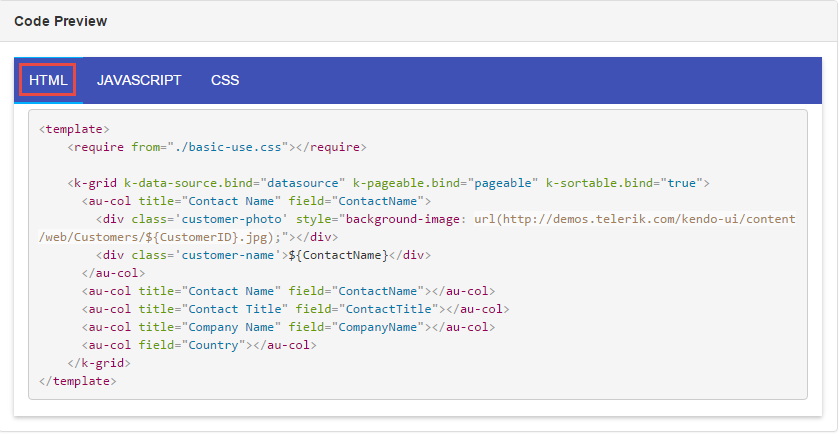
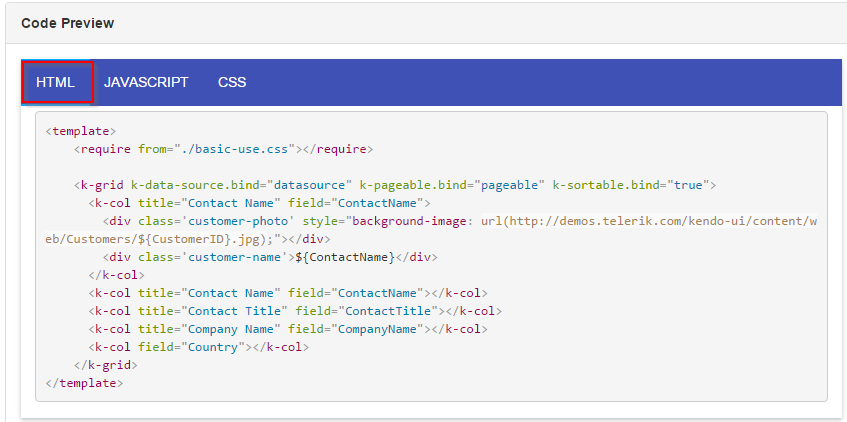
no message

Changed region(s): [[0.0, 0.0924, 1.0, 0.9858], [0.0, 0.955, 0.9917, 1.0], [0.0, 0.0308, 0.1549, 0.0924]]

diff --git a/src/samples/progressbar/vertical-progressbar.js b/src/samples/progressbar/vertical-progressbar.js
@@ -1,9 +1,18 @@
+import {TaskQueue, inject} from 'aurelia-framework';
+
+@inject(TaskQueue)
 export class VerticalProgressbar {
 
   itemsToLoad = ['styles', 'scripts', 'images', 'fonts'];
 
+  constructor(taskQueue) {
+    this.taskQueue = taskQueue;
+  }
+
   attached() {
-    this.load();
+    this.taskQueue.queueMicroTask(() => {
+      this.load();
+    });
   }
 
   onChange(e) {
@@ -15,13 +24,11 @@ export class VerticalProgressbar {
       clearInterval(this.interval);
     }
 
-    let pb1 = this.pb1.kWidget;
-
-    let total = +pb1.value();
+    let total = +this.pb1.value();
     total ++;
-    pb1.value(total);
+    this.pb1.value(total);
 
-    if (total < pb1.options.max) {
+    if (total < this.pb1.options.max) {
       $('.chunkStatus').text(total + 1);
       $('.loadingInfo h2').text(`Loading ${this.itemsToLoad[total]}`);
 
@@ -36,12 +43,11 @@ export class VerticalProgressbar {
   }
 
   load() {
-    let pb2 = this.pb2.kWidget;
-    pb2.value(0);
+    this.pb2.value(0);
 
     this.interval = setInterval(() => {
-      if (pb2.value() < 100) {
-        pb2.value(pb2.value() + 1);
+      if (this.pb2.value() < 100) {
+        this.pb2.value(this.pb2.value() + 1);
       } else {
         clearInterval(this.interval);
       }
@@ -49,14 +55,11 @@ export class VerticalProgressbar {
   }
 
   reload() {
-    let pb1 = this.pb1.kWidget;
-    let pb2 = this.pb2.kWidget;
-
     $(this.reloadButton).hide();
     $('.statusContainer').show();
 
-    pb1.value(0);
-    pb2.value(0);
+    this.pb1.value(0);
+    this.pb2.value(0);
     $('.loadingInfo h2').text(`Loading ${this.itemsToLoad[0]}`);
     $('.chunkStatus').text(1);
 

diff --git a/src/samples/chart/sparkline/remote-data.html b/src/samples/chart/sparkline/remote-data.html
@@ -2,8 +2,8 @@
   <div id="example">
     <div class="demo-section k-content wide">
       <k-grid k-data-source.bind="{ data: months }">
-        <au-col title="MONTH" field="name"></au-col>
-        <au-col title="MAX TEMP &deg;C">
+        <k-col title="MONTH" field="name"></k-col>
+        <k-col title="MAX TEMP &deg;C">
           <k-sparkline k-data-source.bind="dataSource"
                        k-series.bind="[{
                          type: 'column',
@@ -12,16 +12,16 @@
                          negativeColor: '\#0099ff'
                        }]">
           </k-sparkline>
-        </au-col>
-        <au-col title="WIND SPEED KM/H">
+        </k-col>
+        <k-col title="WIND SPEED KM/H">
           <k-sparkline k-data-source.bind="dataSource"
                        k-series.bind="[{
                          field: 'Wind',
                          color: '\#5b8f00'
                        }]">
           </k-sparkline>
-        </au-col>
-        <au-col title="RAINFALL MM">
+        </k-col>
+        <k-col title="RAINFALL MM">
           <k-sparkline k-data-source.bind="dataSource"
                        k-series.bind="[{
                          type: 'area',
@@ -29,7 +29,7 @@
                          color: '\#0099ff'
                        }]">
           </k-sparkline>
-        </au-col>
+        </k-col>
       </k-grid>
     </div>
   </div>

diff --git a/src/samples/progressbar/vertical-progressbar.html b/src/samples/progressbar/vertical-progressbar.html
@@ -4,19 +4,19 @@
     <div id="vertical-progressbar">
       <div class="demo-section k-content">
           <div class="loading">
-              <div k-progress-bar.ref="pb1"
-                   k-progress-bar="k-type: chunk;
+              <div k-progress-bar="k-type: chunk;
                                    k-chunk-count: 4;
                                    k-min: 0;
                                    k-max: 4;
-                                   k-orientation: vertical"
+                                   k-orientation: vertical;
+                                   k-widget.bind: pb1"
                    k-on-complete.delegate="onTotalComplete()">
               </div>
 
-              <div k-progress-bar.ref="pb2"
-                   k-progress-bar="k-animation.bind: false;
+              <div k-progress-bar="k-animation.bind: false;
                                   k-show-status.bind: false;
-                                  k-orientation: vertical"
+                                  k-orientation: vertical;
+                                  k-widget.bind: pb2"
                    k-on-complete.delegate="onComplete()"
                    k-on-change.delegate="onChange($event.detail)">
               </div>

diff --git a/src/samples/grid/virtualization-of-remote-data.html b/src/samples/grid/virtualization-of-remote-data.html
@@ -3,14 +3,14 @@
   <br>
   <br>
   <k-grid k-data-source.bind="datasource" k-sortable.bind="true" k-scrollable.bind="{virtual:true}">
-    <au-col title="Order ID" field="OrderID" width.bind="110"></au-col>
-    <au-col title="Customer ID" field="CustomerID" width.bind="130"></au-col>
-    <au-col title="Ship Name" field="ShipName" width.bind="280"></au-col>
-    <au-col title="Ship Address" field="ShipAddress"></au-col>
-    <au-col title="Ship City" field="ShipCity" width.bind="160"></au-col>
-    <au-col title="Ship Country" field="ShipCountry" width.bind="160"></au-col>
-    <au-col title="Test">
+    <k-col title="Order ID" field="OrderID" width.bind="110"></k-col>
+    <k-col title="Customer ID" field="CustomerID" width.bind="130"></k-col>
+    <k-col title="Ship Name" field="ShipName" width.bind="280"></k-col>
+    <k-col title="Ship Address" field="ShipAddress"></k-col>
+    <k-col title="Ship City" field="ShipCity" width.bind="160"></k-col>
+    <k-col title="Ship Country" field="ShipCountry" width.bind="160"></k-col>
+    <k-col title="Test">
       <button k-button class="k-primary">Enable</button>
-    </au-col>
+    </k-col>
   </k-grid>
 </template>

diff --git a/src/samples/grid/virtualization-of-remote-data-without-button.html b/src/samples/grid/virtualization-of-remote-data-without-button.html
@@ -3,11 +3,11 @@
   <br>
   <br>
   <k-grid k-data-source.bind="datasource" k-sortable.bind="true" k-scrollable.bind="{virtual:true}">
-    <au-col title="Order ID" field="OrderID" width.bind="110"></au-col>
-    <au-col title="Customer ID" field="CustomerID" width.bind="130"></au-col>
-    <au-col title="Ship Name" field="ShipName" width.bind="280"></au-col>
-    <au-col title="Ship Address" field="ShipAddress"></au-col>
-    <au-col title="Ship City" field="ShipCity" width.bind="160"></au-col>
-    <au-col title="Ship Country" field="ShipCountry" width.bind="160"></au-col>
+    <k-col title="Order ID" field="OrderID" width.bind="110"></k-col>
+    <k-col title="Customer ID" field="CustomerID" width.bind="130"></k-col>
+    <k-col title="Ship Name" field="ShipName" width.bind="280"></k-col>
+    <k-col title="Ship Address" field="ShipAddress"></k-col>
+    <k-col title="Ship City" field="ShipCity" width.bind="160"></k-col>
+    <k-col title="Ship Country" field="ShipCountry" width.bind="160"></k-col>
   </k-grid>
 </template>

diff --git a/src/samples/grid/frozen-columns.html b/src/samples/grid/frozen-columns.html
@@ -7,10 +7,10 @@
           k-filterable.bind="true" 
           k-column-menu.bind="true"
           k-pageable.bind="true">
-    <au-col field="OrderID" title="Order ID" locked.bind="true" lockable.bind="false" width.bind="150"></au-col>
-    <au-col field="ShipCountry" title="Ship Country" width.bind="300"></au-col>
-    <au-col field="ShipCity" title="Ship City" width.bind="300"></au-col>
-    <au-col field="ShipName" title="Ship Name" locked.bind="true" width.bind="300"></au-col>
-    <au-col field="ShipAddress" lockable.bind="false" width.bind="400"></au-col>
+    <k-col field="OrderID" title="Order ID" locked.bind="true" lockable.bind="false" width.bind="150"></k-col>
+    <k-col field="ShipCountry" title="Ship Country" width.bind="300"></k-col>
+    <k-col field="ShipCity" title="Ship City" width.bind="300"></k-col>
+    <k-col field="ShipName" title="Ship Name" locked.bind="true" width.bind="300"></k-col>
+    <k-col field="ShipAddress" lockable.bind="false" width.bind="400"></k-col>
   </k-grid>
 </template>

diff --git a/config.js b/config.js
@@ -28,7 +28,7 @@ System.config({
     "aurelia-event-aggregator": "npm:aurelia-event-aggregator@1.0.0-beta.1",
     "aurelia-framework": "npm:aurelia-framework@1.0.0-beta.1.0.8",
     "aurelia-http-client": "npm:aurelia-http-client@1.0.0-beta.1",
-    "aurelia-kendoui-bridge": "npm:aurelia-kendoui-bridge@0.1.0",
+    "aurelia-kendoui-bridge": "npm:aurelia-kendoui-bridge@0.1.1",
     "aurelia-loader": "npm:aurelia-loader@1.0.0-beta.1.0.1",
     "aurelia-logging": "npm:aurelia-logging@1.0.0-beta.1",
     "aurelia-metadata": "npm:aurelia-metadata@1.0.0-beta.1",
@@ -161,7 +161,7 @@ System.config({
       "aurelia-path": "npm:aurelia-path@1.0.0-beta.1",
       "core-js": "npm:core-js@1.2.6"
     },
-    "npm:aurelia-kendoui-bridge@0.1.0": {
+    "npm:aurelia-kendoui-bridge@0.1.1": {
       "aurelia-binding": "npm:aurelia-binding@1.0.0-beta.1.0.5",
       "aurelia-bootstrapper": "npm:aurelia-bootstrapper@1.0.0-beta.1.0.2",
       "aurelia-dependency-injection": "npm:aurelia-dependency-injection@1.0.0-beta.1.0.1",

diff --git a/src/samples/grid/basic-use.html b/src/samples/grid/basic-use.html
@@ -2,13 +2,13 @@
     <require from="./basic-use.css"></require>
 
     <k-grid k-data-source.bind="datasource" k-pageable.bind="pageable" k-sortable.bind="true">
-      <au-col title="Contact Name" field="ContactName">
+      <k-col title="Contact Name" field="ContactName">
         <div class='customer-photo' style="background-image: url(http://demos.telerik.com/kendo-ui/content/web/Customers/${CustomerID}.jpg);"></div>
         <div class='customer-name'>${ContactName}</div>
-      </au-col>
-      <au-col title="Contact Name" field="ContactName"></au-col>
-      <au-col title="Contact Title" field="ContactTitle"></au-col>
-      <au-col title="Company Name" field="CompanyName"></au-col>
-      <au-col field="Country"></au-col>
+      </k-col>
+      <k-col title="Contact Name" field="ContactName"></k-col>
+      <k-col title="Contact Title" field="ContactTitle"></k-col>
+      <k-col title="Company Name" field="CompanyName"></k-col>
+      <k-col field="Country"></k-col>
     </k-grid>
 </template>

diff --git a/src/samples/grid/editing-custom-editor.html b/src/samples/grid/editing-custom-editor.html
@@ -1,10 +1,10 @@
 <template>
   <div id="example">
     <k-grid k-pageable.bind="true" k-height.bind="500" k-toolbar.bind="['create']" k-editable.bind="true" k-data-source.bind="dataSource">
-      <au-col field="ProductName" title="Product Name"></au-col>
-      <au-col field="Category" title="Category" width="180px" editor.bind="categoryDropDownEditor" template.bind="categoryTemplate"></au-col>
-      <au-col field="UnitPrice" title="Unit Price" format="{0:c}" width="130px"></au-col>
-      <au-col command="destroy" title=" " width="150px"></au-col>
+      <k-col field="ProductName" title="Product Name"></k-col>
+      <k-col field="Category" title="Category" width="180px" editor.bind="categoryDropDownEditor" template.bind="categoryTemplate"></k-col>
+      <k-col field="UnitPrice" title="Unit Price" format="{0:c}" width="130px"></k-col>
+      <k-col command="destroy" title=" " width="150px"></k-col>
     </k-grid>
   </div>
 </template>

diff --git a/src/shared/showcase.html b/src/shared/showcase.html
@@ -5,9 +5,9 @@
         <h3>${ router.title }</h3>
         <div>
             <div class="col-md-2">
-                <ul class="well nav nav-pills nav-stacked">
-                    <li repeat.for="row of router.navigation" class="${row.isActive ? 'active' : ''}">
-                        <a href.bind="row.href">${row.title}</a>
+                <ul class="k-widget k-reset k-header k-panelbar k-panel">
+                    <li repeat.for="row of router.navigation" class="k-item ${ $first ? 'k-first' : '' } ${ $last ? 'k-last' : ''} ">
+                        <span click.delegate="router.navigate(row.href)" mouseenter.trigger="row.isHovered = true" mouseleave.trigger="row.isHovered = false" class="k-link ${ row.isActive ? 'k-state-selected' : ''} ${ row.isHovered ? 'k-state-hover' : '' }">${row.title}</span>
                     </li>
                 </ul>
             </div>

diff --git a/src/samples/grid/inline-editing.html b/src/samples/grid/inline-editing.html
@@ -1,9 +1,9 @@
 <template>
   <k-grid k-data-source.bind="datasource" k-pageable.bind="true" k-toolbar.bind="['create']" k-editable="inline">
-    <au-col field="ProductName"></au-col>
-    <au-col field="UnitPrice" title="Unit Price" format="{0:c}" width="120px"></au-col>
-    <au-col field="UnitsInStock" title="Units In Stock" width="120px"></au-col>
-    <au-col field="Discontinued" width="120px"></au-col>
-    <au-col command.bind="['edit', 'destroy']" title="&nbsp;" width="250px"></au-col>
+    <k-col field="ProductName"></k-col>
+    <k-col field="UnitPrice" title="Unit Price" format="{0:c}" width="120px"></k-col>
+    <k-col field="UnitsInStock" title="Units In Stock" width="120px"></k-col>
+    <k-col field="Discontinued" width="120px"></k-col>
+    <k-col command.bind="['edit', 'destroy']" title="&nbsp;" width="250px"></k-col>
   </k-grid>
 </template>

diff --git a/src/samples/grid/popup-editing.html b/src/samples/grid/popup-editing.html
@@ -1,9 +1,9 @@
 <template>
   <k-grid k-data-source.bind="datasource" k-pageable.bind="true" k-toolbar.bind="['create']" k-editable="popup">
-    <au-col field="ProductName"></au-col>
-    <au-col field="UnitPrice" title="Unit Price" format="{0:c}" width="120px"></au-col>
-    <au-col field="UnitsInStock" title="Units In Stock" width="120px"></au-col>
-    <au-col field="Discontinued" width="120px"></au-col>
-    <au-col command.bind="['edit', 'destroy']" title="&nbsp;" width="250px"></au-col>
+    <k-col field="ProductName"></k-col>
+    <k-col field="UnitPrice" title="Unit Price" format="{0:c}" width="120px"></k-col>
+    <k-col field="UnitsInStock" title="Units In Stock" width="120px"></k-col>
+    <k-col field="Discontinued" width="120px"></k-col>
+    <k-col command.bind="['edit', 'destroy']" title="&nbsp;" width="250px"></k-col>
   </k-grid>
 </template>
